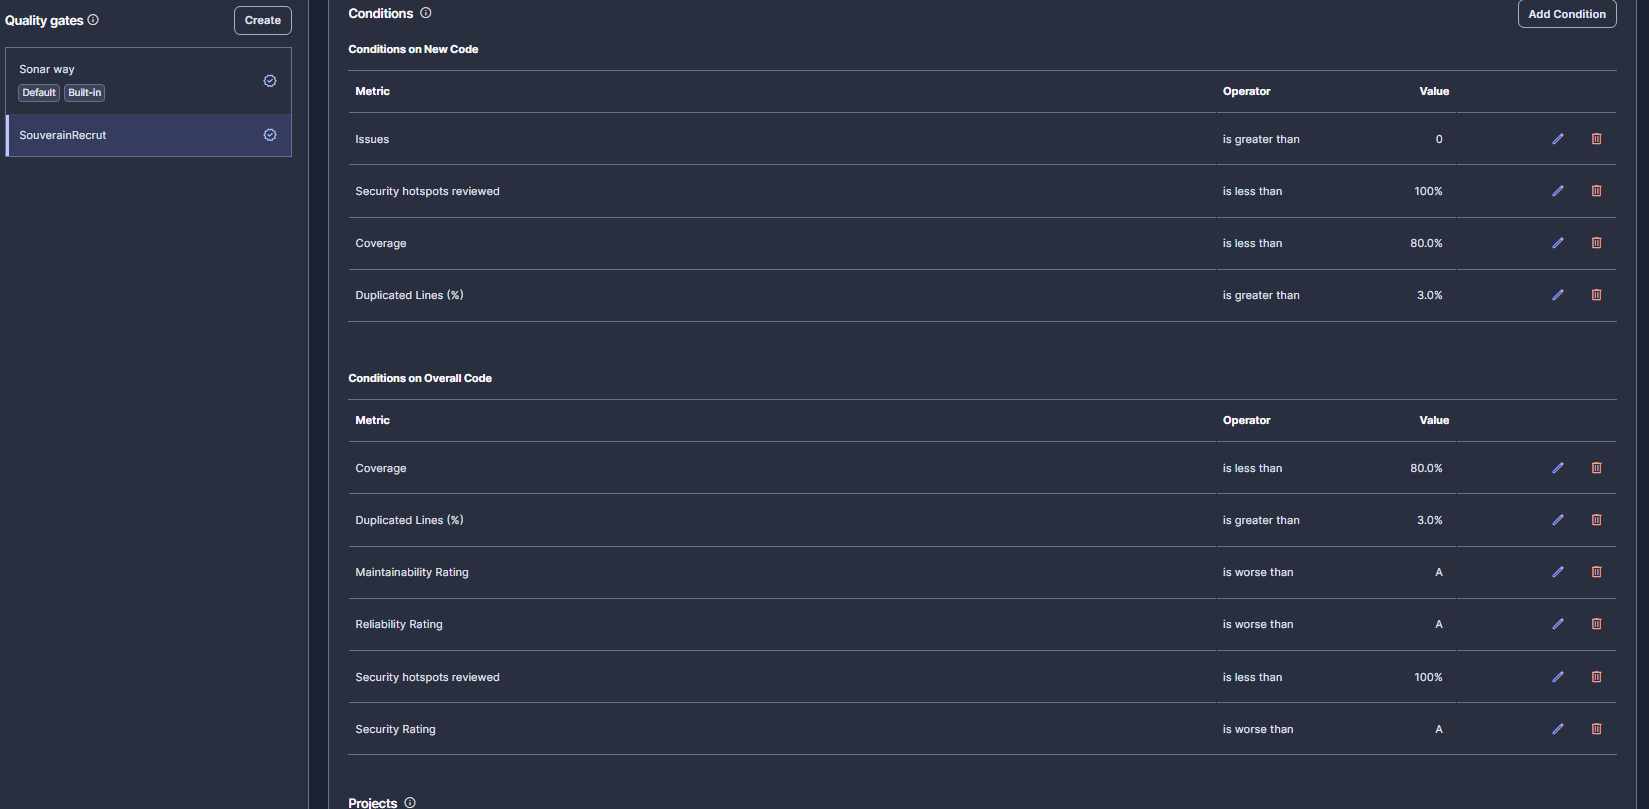
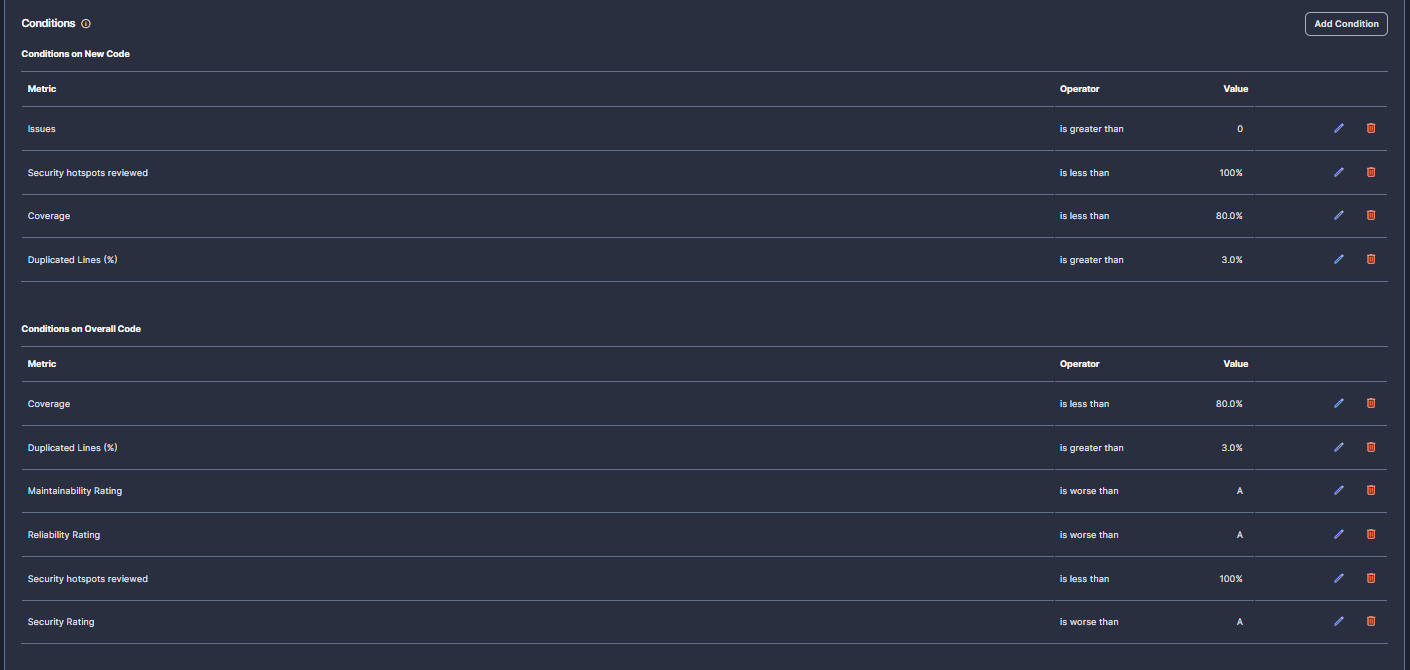
docs(ci): captures Jenkins/SonarQube/Docker Hub dans les rapports
- Ajout des captures : tests (97), couverture 100 %, tableau de bord
  SonarQube, webhook, credentials Jenkins, dépôt Docker Hub
- Capture des conditions du Quality Gate remplacée (plus lisible)
- .env.example : image docker.io/mtbvr/souverainrecrut-backend

diff --git a/integration-continue/reports/README.md b/integration-continue/reports/README.md
@@ -58,5 +58,11 @@ Levée prévue lors de la migration vers Prisma 7.
 | [`08-sonarqube-issues.png`](captures/08-sonarqube-issues.png) | Problèmes relevés : `X-Powered-By`, `parseInt` |
 | [`09-jenkins-pipeline-builds-1-a-4.png`](captures/09-jenkins-pipeline-builds-1-a-4.png) | Historique complet : #1 bloqué (Trivy), #3 bloqué (Quality Gate), #4 vert |
 | [`10-sonarqube-quality-gate-passed.png`](captures/10-sonarqube-quality-gate-passed.png) | Résultat final : A / A / A, 0 problème, couverture 100 %, gate Passed |
+| [`11-jenkins-tests-97-reussis.png`](captures/11-jenkins-tests-97-reussis.png) | Résultats JUnit publiés par Jenkins : 97 tests réussis |
+| [`12-jenkins-couverture-100.png`](captures/12-jenkins-couverture-100.png) | Couverture publiée par Jenkins : 100 %, tendance sur les builds #1 à #4 |
+| [`13-sonarqube-tableau-de-bord.png`](captures/13-sonarqube-tableau-de-bord.png) | Tableau de bord SonarQube : gate Passed, 0 problème, 0 % de duplication |
+| [`14-sonarqube-webhook-livraison-ok.png`](captures/14-sonarqube-webhook-livraison-ok.png) | Webhook SonarQube → Jenkins configuré, dernière livraison réussie |
+| [`15-jenkins-credentials.png`](captures/15-jenkins-credentials.png) | Credentials Jenkins : identifiants uniquement, valeurs masquées |
+| [`16-dockerhub-depot.png`](captures/16-dockerhub-depot.png) | Dépôt Docker Hub `mtbvr/souverainrecrut-backend` |
 
 > Aucun fichier de ce dossier ne contient de secret (token, mot de passe, `.env`).
